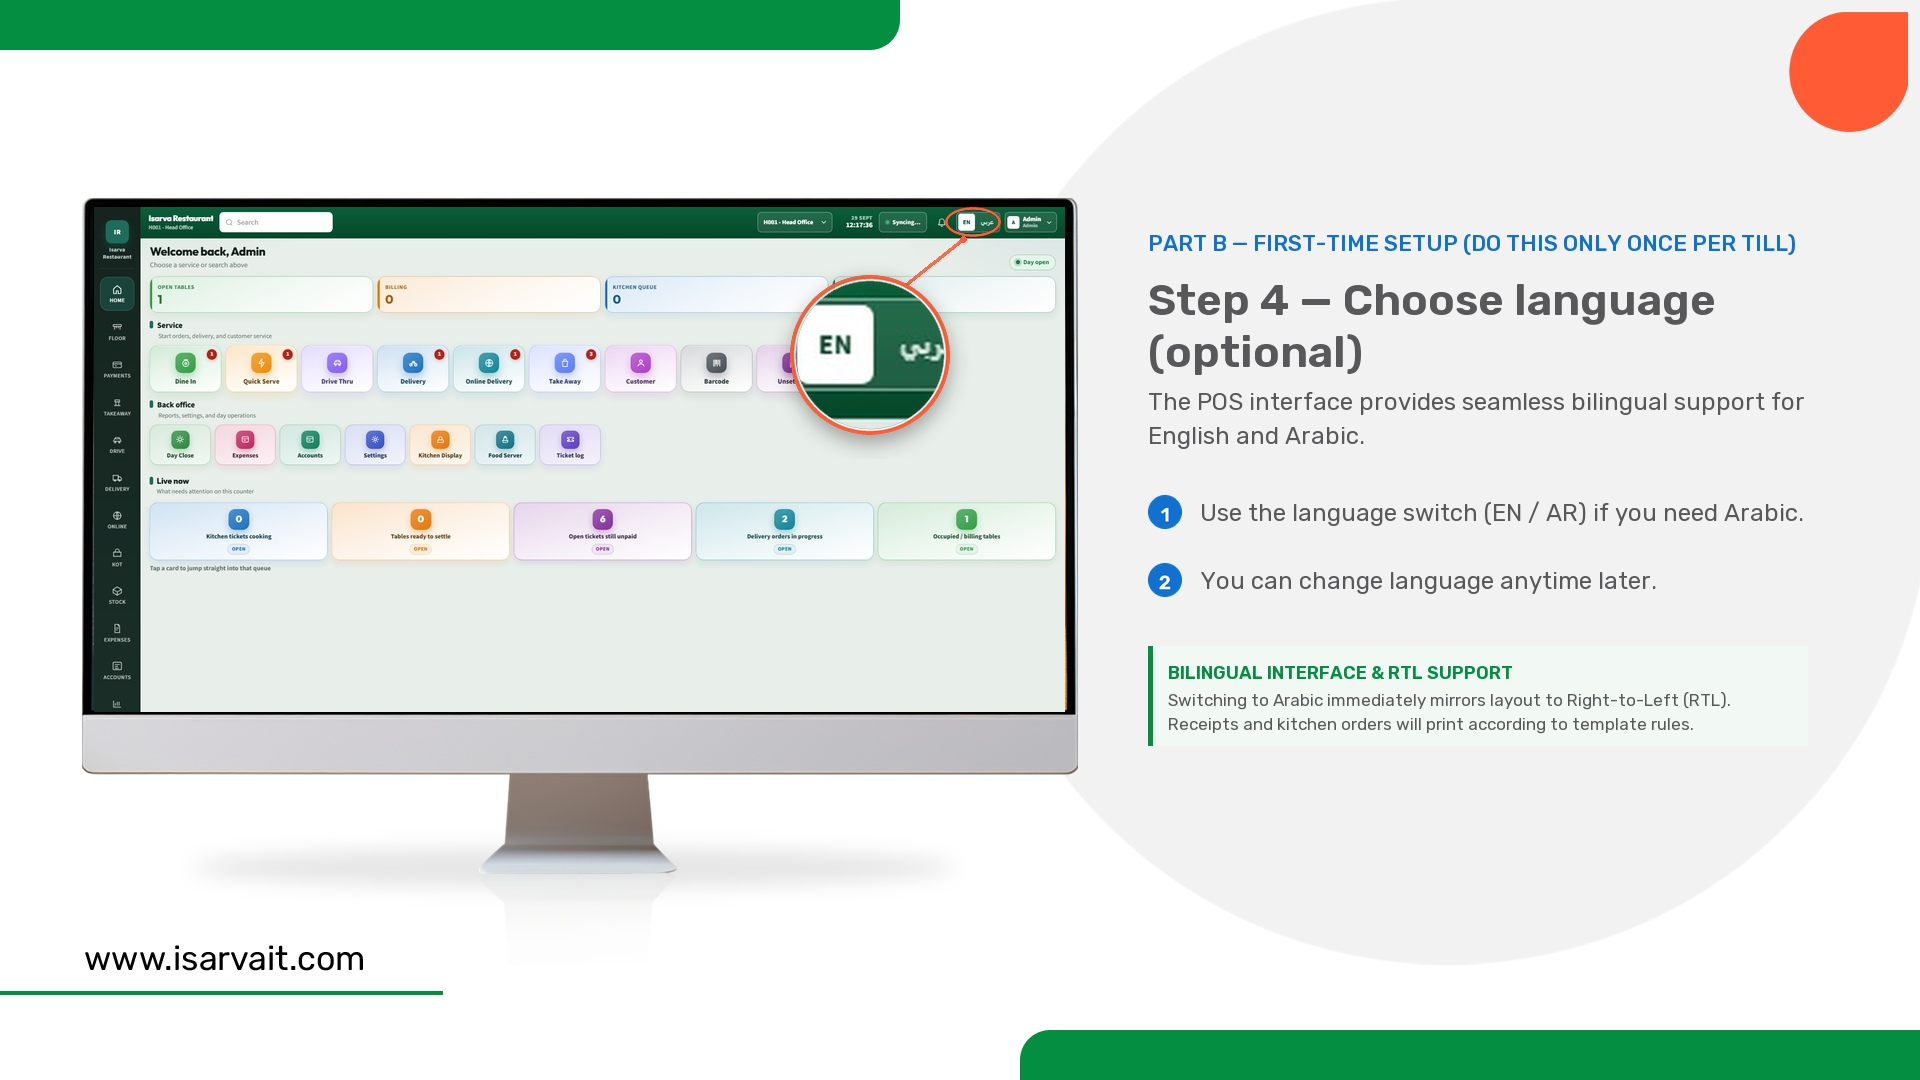
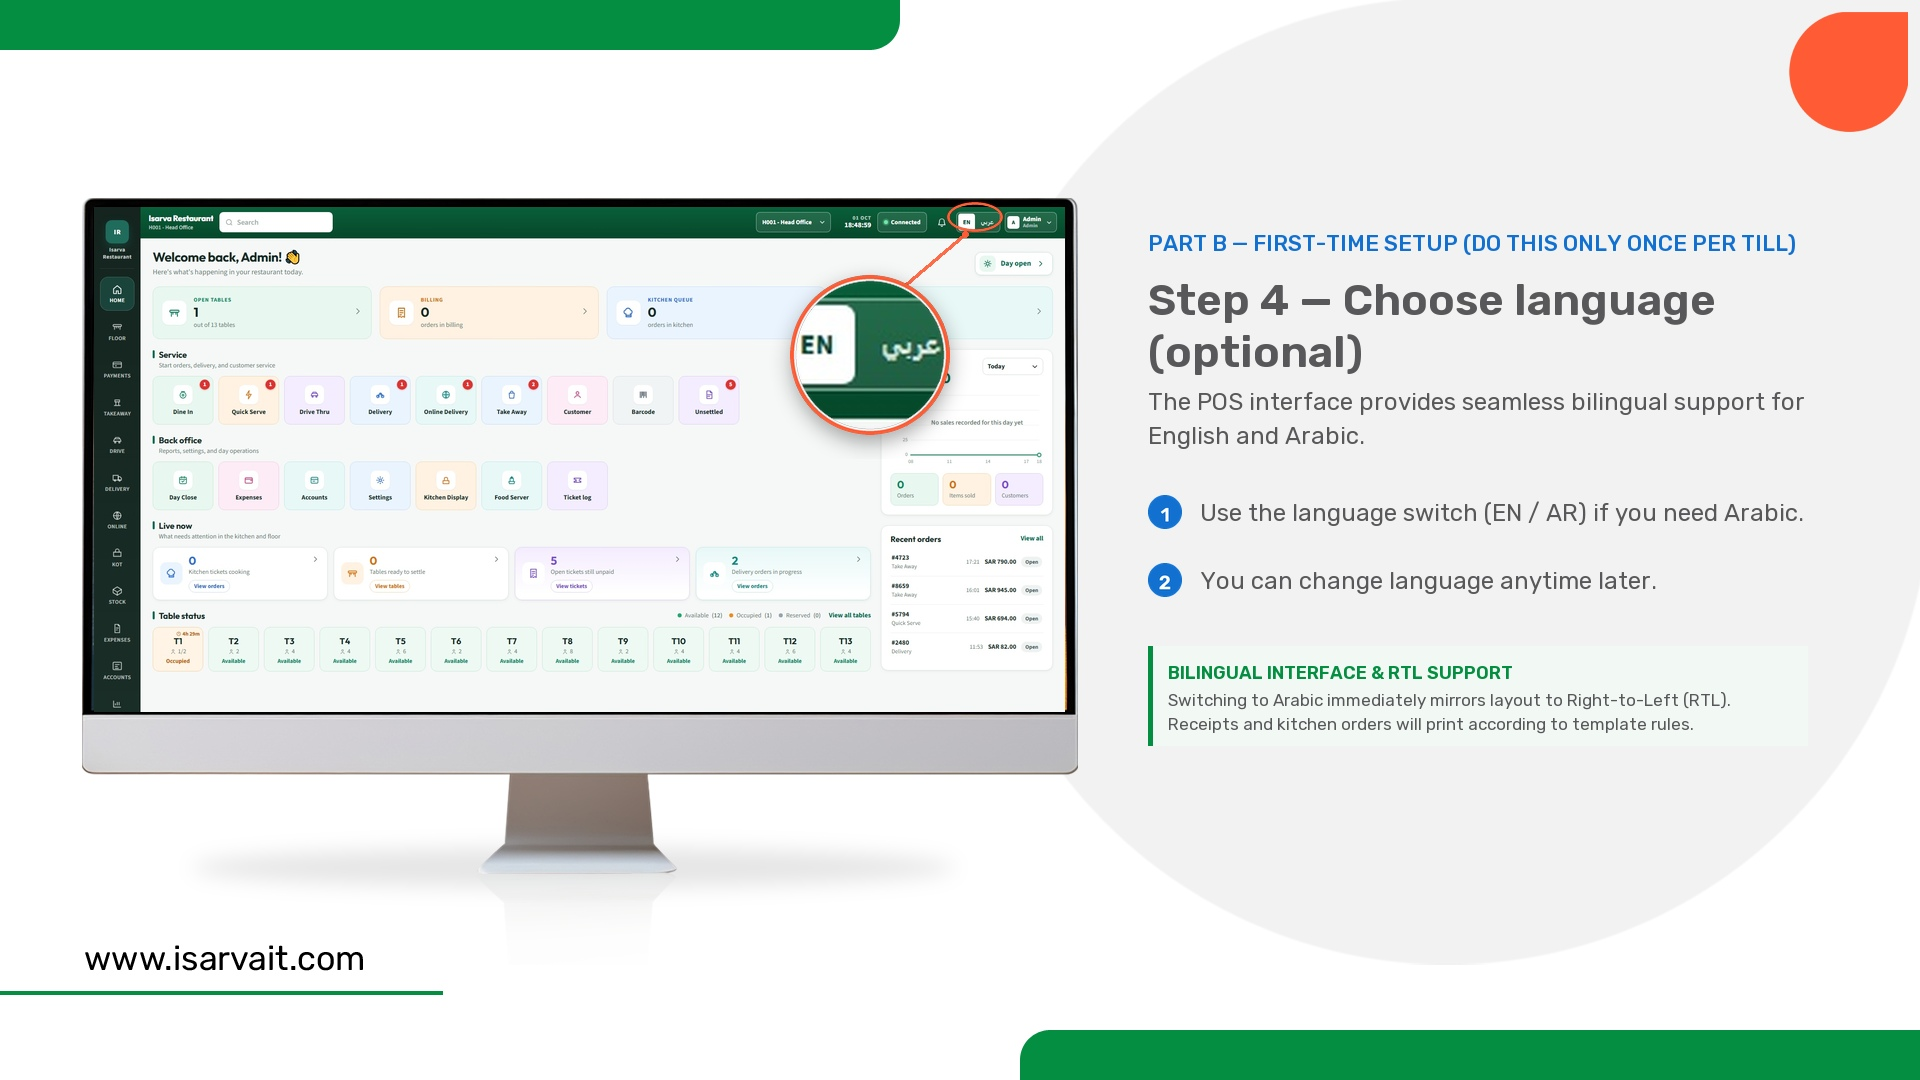
feat: capture updated live dashboard and regenerate Part B Step 4 language slide

Changed region(s): [[0.0625, 0.2139, 0.5312, 0.55], [0.4375, 0.1833, 0.5625, 0.275]]

diff --git a/scratch/capture_new_dashboard.py b/scratch/capture_new_dashboard.py
@@ -1,0 +1,68 @@
+import asyncio
+from playwright.async_api import async_playwright
+
+async def capture_dashboard():
+    async with async_playwright() as p:
+        try:
+            browser = await p.chromium.launch(channel="chrome", headless=True)
+        except Exception:
+            browser = await p.chromium.launch(channel="msedge", headless=True)
+        context = await browser.new_context(
+            viewport={"width": 1920, "height": 1080},
+            device_scale_factor=1.0
+        )
+        page = await context.new_page()
+
+        print("Navigating to POS...")
+        await page.goto("https://app.restaurant-pos.isarva.in", timeout=45000)
+        await page.wait_for_timeout(3000)
+
+        # 1. Activation
+        if await page.locator('button:has-text("Activate")').count() > 0:
+            print("Activating terminal C001...")
+            await page.locator('input').first.fill("C001")
+            await page.locator('button:has-text("Activate")').click()
+            await page.wait_for_timeout(3000)
+
+        # 2. Login
+        if await page.locator('button:has-text("OK")').count() > 0:
+            print("Logging in as admin...")
+            inputs = await page.locator('input').all()
+            if len(inputs) >= 2:
+                await inputs[0].fill("admin")
+                await inputs[1].fill("0000")
+                await page.locator('button:has-text("OK")').click()
+                await page.wait_for_timeout(4000)
+
+        print(f"Current URL: {page.url}")
+        # Wait 4 seconds for UI to settle
+        await page.wait_for_timeout(4000)
+
+        # Dismiss toast or sweetalerts if any
+        try:
+            await page.evaluate("""() => {
+                document.querySelectorAll('.swal2-container, [role="status"], .toast, [class*="toast"], .notistack-Snackbar').forEach(el => el.remove());
+            }""")
+        except Exception:
+            pass
+
+        # Take screenshot
+        out_path = "scratch/new_dashboard_raw.png"
+        await page.screenshot(path=out_path, full_page=False)
+        print(f"Saved screenshot to {out_path}")
+
+        # Find language toggle elements
+        print("\nSearching for language toggle / switch buttons...")
+        lang_elements = await page.locator('text=/EN|عربي|English|Arabic/i').all()
+        for idx, el in enumerate(lang_elements):
+            try:
+                box = await el.bounding_box()
+                txt = await el.inner_text()
+                print(f"  Element {idx}: text='{txt.strip()}', bbox={box}")
+            except Exception as e:
+                pass
+
+        await browser.close()
+
+if __name__ == "__main__":
+    asyncio.run(capture_dashboard())

diff --git a/scratch/find_lang_box.py b/scratch/find_lang_box.py
@@ -1,0 +1,33 @@
+import asyncio
+from playwright.async_api import async_playwright
+
+async def check():
+    async with async_playwright() as p:
+        b = await p.chromium.launch(channel="chrome", headless=True)
+        page = await b.new_page(viewport={"width": 1920, "height": 1080})
+        await page.goto("https://app.restaurant-pos.isarva.in", timeout=30000)
+        await page.wait_for_timeout(2000)
+        if await page.locator('button:has-text("Activate")').count() > 0:
+            await page.locator('input').first.fill("C001")
+            await page.locator('button:has-text("Activate")').click()
+            await page.wait_for_timeout(2000)
+        if await page.locator('button:has-text("OK")').count() > 0:
+            inputs = await page.locator('input').all()
+            await inputs[0].fill("admin")
+            await inputs[1].fill("0000")
+            await page.locator('button:has-text("OK")').click()
+            await page.wait_for_timeout(3000)
+        
+        el = page.locator('text="EN"').first
+        box = await el.bounding_box()
+        print('EN box:', box)
+        parent = el.locator('..')
+        p_box = await parent.bounding_box()
+        print('Parent box:', p_box)
+        p_parent = parent.locator('..')
+        pp_box = await p_parent.bounding_box()
+        print('Grandparent box:', pp_box)
+        await b.close()
+
+if __name__ == "__main__":
+    asyncio.run(check())

diff --git a/scratch/render_part_b_step4_magnifier.py b/scratch/render_part_b_step4_magnifier.py
@@ -123,15 +123,15 @@ def render_step4_with_magnifier(output_path: str):
 
     # 2. Add Magnifier & Button Highlight Circle
     # Coordinates of button on canvas:
-    # center is around (973, 222), size is approx 46x24
-    btn_cx = 973
-    btn_cy = 222
+    # center is around (975, 217), size is approx 46x24
+    btn_cx = 975
+    btn_cy = 217
     
     # Magnifier position: refined diameter 160px, zoom 2.3x
     lens_dia = 160
     lens_img, pad = build_magnifier_lens(
         screen_path,
-        focus_x=1740,
+        focus_x=1748,
         focus_y=30,
         lens_diameter=lens_dia,
         zoom_factor=2.3,
